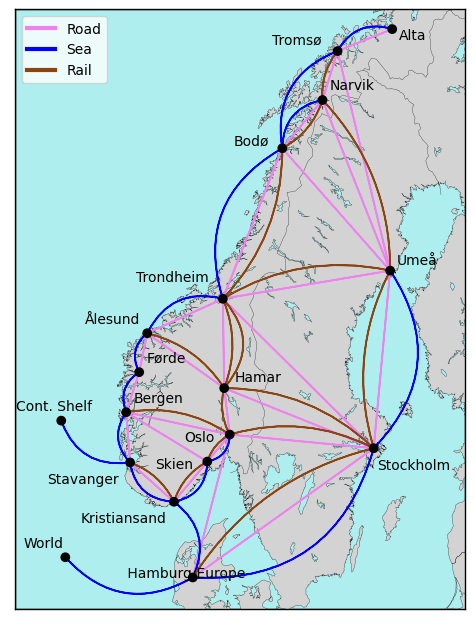
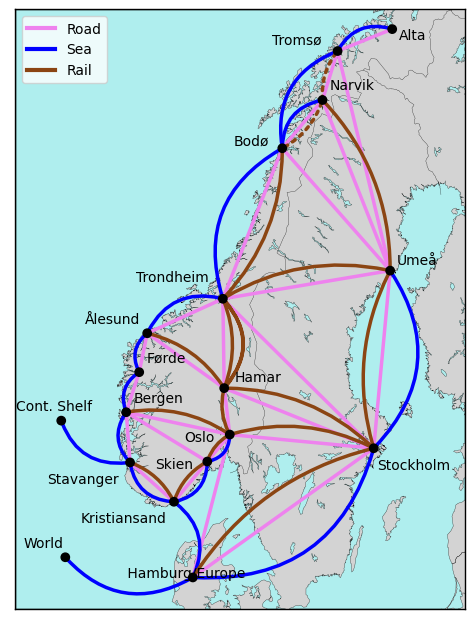
Plot update

diff --git a/_plot_network.py b/_plot_network.py
@@ -12,6 +12,8 @@ import pickle
 from mpl_toolkits.basemap import Basemap #for creating the background map
 import matplotlib.pyplot as plt #for plotting on top of the background map
 import matplotlib.patches as patches #import library for fancy arrows/edges
+import matplotlib.lines as mlines
+from matplotlib.collections import PatchCollection
 import copy
 
 
@@ -81,7 +83,7 @@ for e in base_data.E_EDGES:
 # c. Plot edges in the map
 
 #arrow settings
-line_width = 1.2
+line_width = 2.5
 base_curvature = 0.2
 #arrow settings for the different modes
 mode_color_dict = {"Road":"violet", "Sea":"blue", "Rail":"saddlebrown", "total":"black"}
@@ -96,6 +98,8 @@ nodes_sea_order = ["Umeå", "Stockholm", "Hamar", "Oslo", "Skien", "Kristiansand
 
 
 unique_edges = []
+
+
 
 # loop over all edges to plot them
 for (i,j,m,r) in base_data.E_EDGES:
@@ -125,12 +129,17 @@ for (i,j,m,r) in base_data.E_EDGES:
         cur_color = mode_color_dict[cur_mode]
 
         # construct new edge
+        line_stl = mode_linestyle_dict[cur_mode]
+        if (cur_mode == "Rail") and (cur_orig, cur_dest) in [("Bodø","Narvik"),("Narvik","Bodø"),("Narvik","Tromsø"),("Tromsø","Narvik")]:
+            line_stl = "dotted"#":"
+
         new_edge = patches.FancyArrowPatch(
                         (node_x[cur_orig_index], node_y[cur_orig_index]),  #origin coordinates
                         (node_x[cur_dest_index], node_y[cur_dest_index]),  #destination coordinates
                         connectionstyle=f"arc3,rad={base_curvature * curvature_factor}", #curvature of the edge
                         linewidth = line_width,
-                        linestyle=mode_linestyle_dict[cur_mode],
+                        arrowstyle='-',
+                        linestyle=line_stl, #requires arrowstyle to be defined in order to work
                         color=cur_color,
                         zorder = zorder_dict[cur_mode]
                         )    
